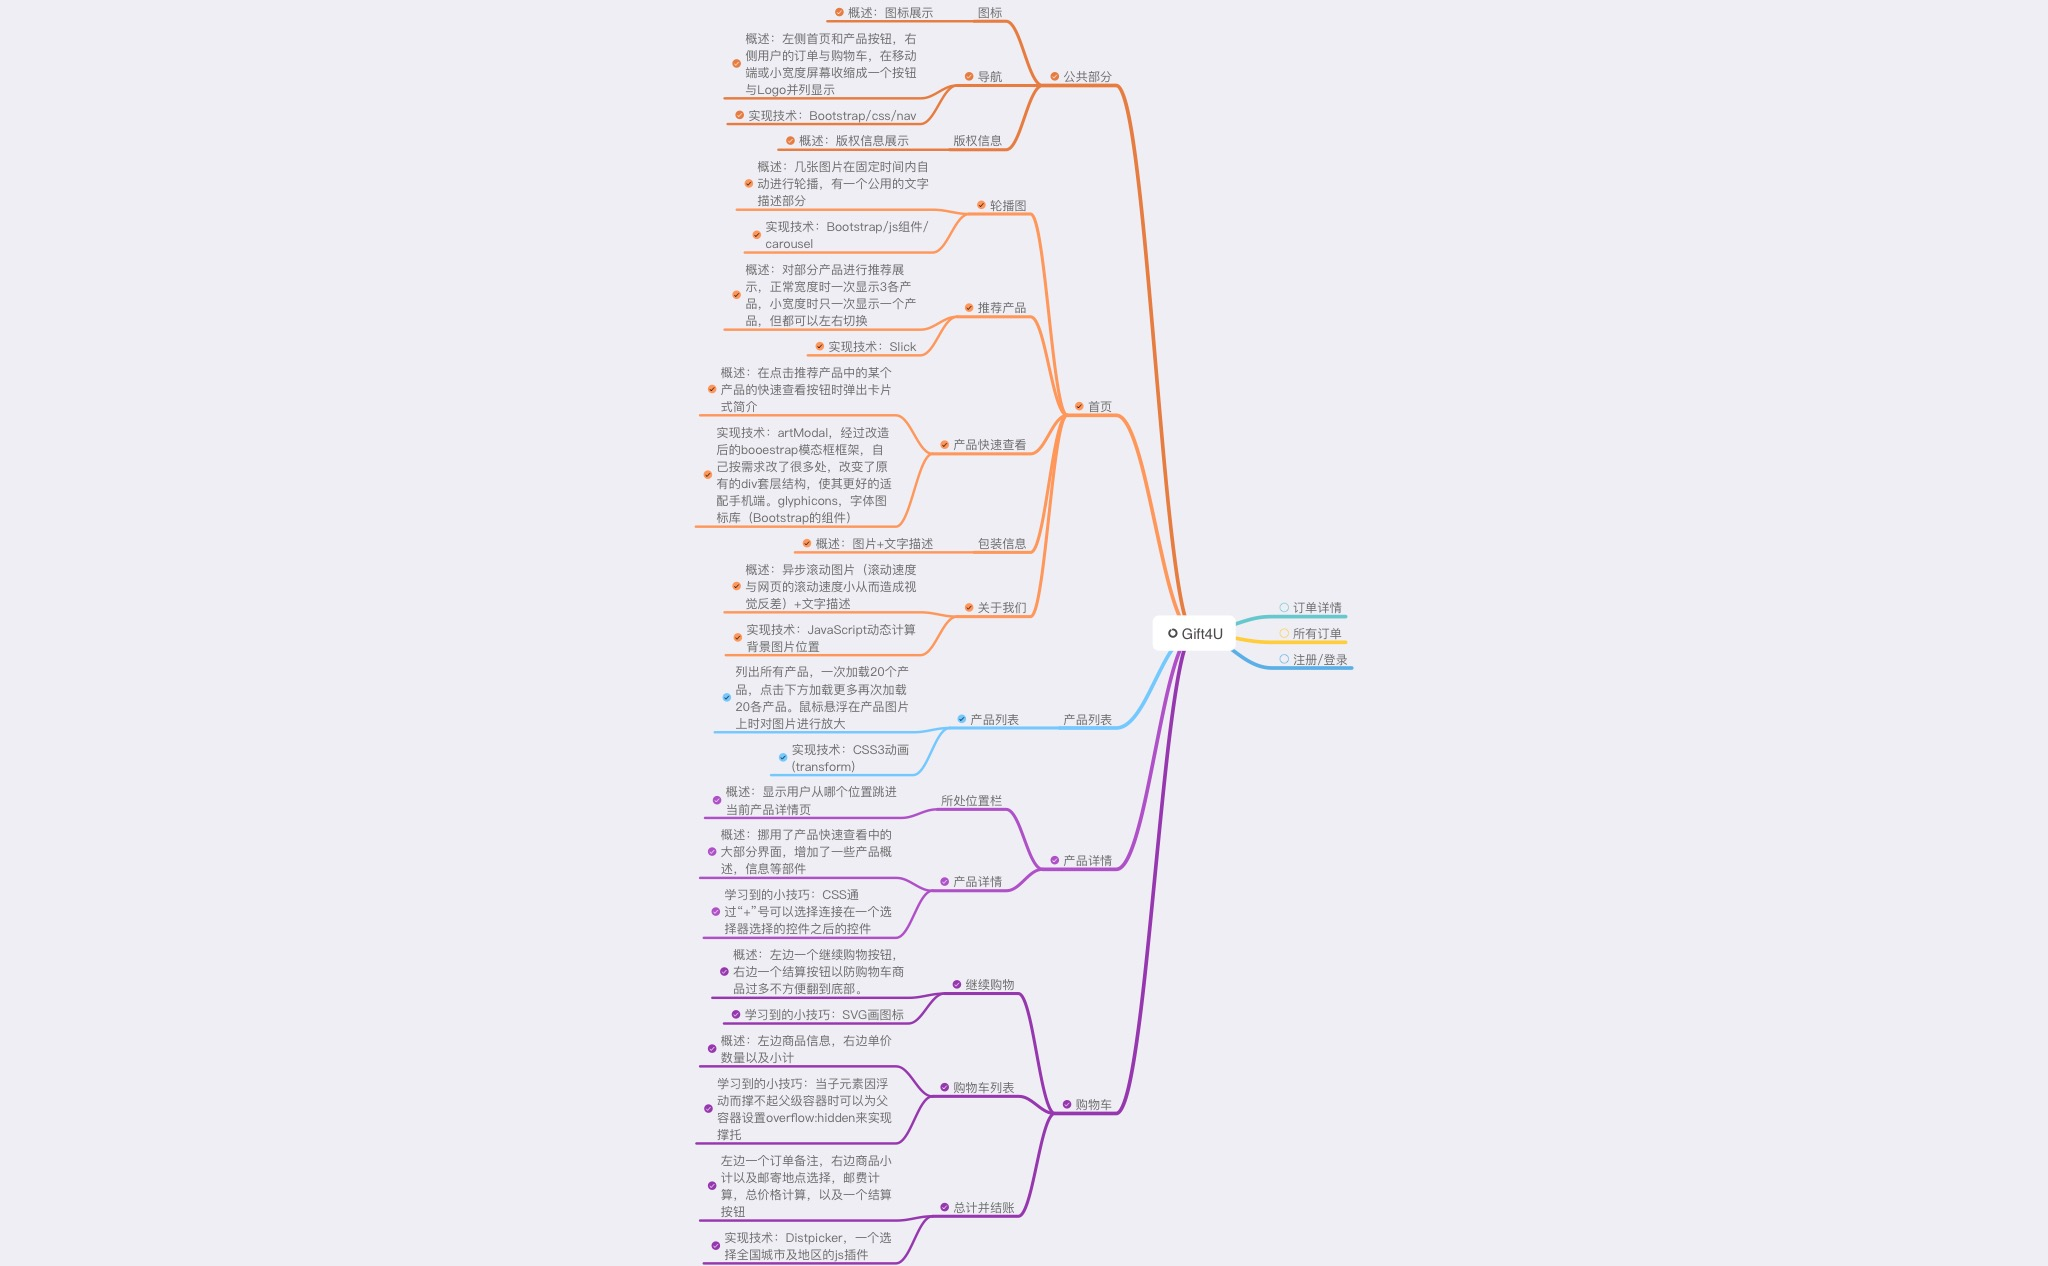
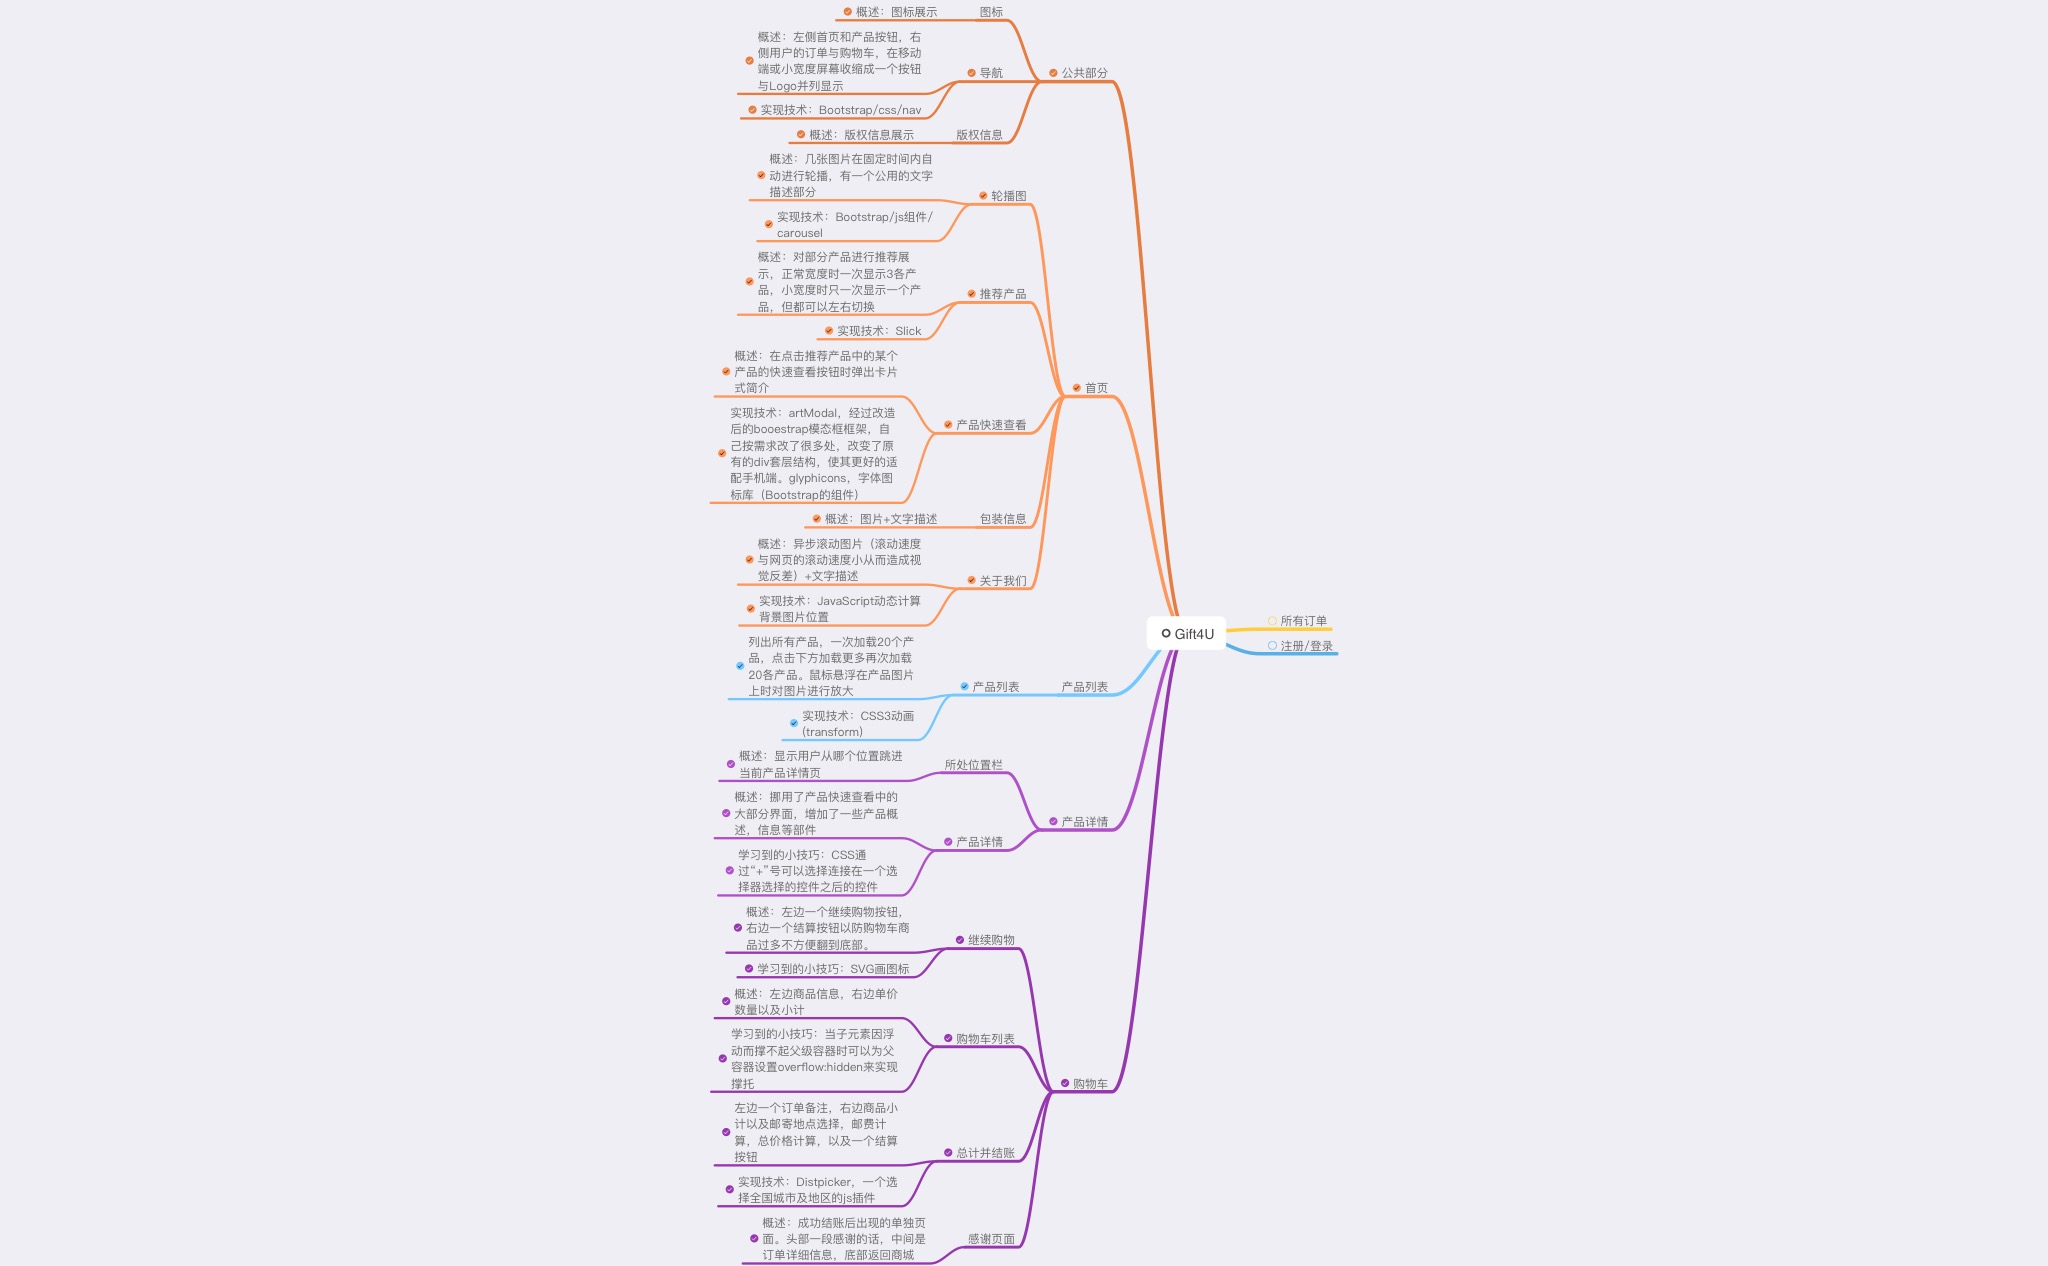
add and finish thanks page

Changed region(s): [[0.3438, 0.0, 0.6562, 1.0]]

diff --git a/pages/thanks.html b/pages/thanks.html
@@ -1,0 +1,108 @@
+<!-- module : https://duulewhite.wixsite.com/website -->
+<!DOCTYPE html>
+<html lang="en">
+
+<head>
+    <meta charset="UTF-8">
+    <meta http-equiv="X-UA-Compatible" content="IE=edge">
+    <meta name="viewport" content="width=device-width, initial-scale=1">
+    <link rel="SHORTCUT ICON" href="../img/logo2.ico" />
+    <!-- Bootstrap -->
+    <link href="../css/bootstrap.css" rel="stylesheet">
+    <!-- JQuery -->
+    <script src="../js/jquery-2.1.4.min.js"></script>
+    <!-- Bootstrap -->
+    <script src="../js/bootstrap.min.js"></script>
+    <title>[PageName] | Gift4U</title>
+    <link rel="stylesheet" type="text/css" href="../css/font.css">
+    <link rel="stylesheet" type="text/css" href="../css/common.css">
+    <link rel="stylesheet" type="text/css" href="../css/thanks.css">
+    <script type="text/javascript" src="../js/common.js"></script>
+</head>
+
+<body>
+    <!-- .logo -->
+    <div class="logo container">
+        <a href="../index.html">
+                <img src="../img/logo2.jpg" width="120px" height="120px">
+            </a>
+    </div>
+    <!-- /.logo -->
+    <!-- .navbar -->
+    <nav class="navbar navbar-default">
+        <div class="container">
+            <!-- Brand and toggle get grouped for better mobile display -->
+            <div class="navbar-header">
+                <button type="button" class="navbar-toggle collapsed" data-toggle="collapse" data-target="#bs-example-navbar-collapse-1" aria-expanded="false">
+                    <span class="sr-only">Menu</span>
+                    <span class="icon-bar">M</span>
+                </button>
+            </div>
+            <!-- Collect the nav links, forms, and other content for toggling -->
+            <div class="collapse navbar-collapse" id="bs-example-navbar-collapse-1">
+                <ul class="nav navbar-nav">
+                    <li><a href="../index.html">Home <span class="sr-only">(current)</span></a></li>
+                    <li><a href="products.html">Products</a></li>
+                </ul>
+                <ul class="nav navbar-nav navbar-right">
+                    <li class="hidden"><a href="#">Login</a></li>
+                    <li class="dropdown">
+                        <a href="#" class="dropdown-toggle" data-toggle="dropdown" role="button" aria-haspopup="true" aria-expanded="false">Dule<span class="caret"></span></a>
+                        <ul class="dropdown-menu">
+                            <li><a href="#">Orders</a></li>
+                            <li><a href="cart.html">Cart</a></li>
+                            <li role="separator" class="divider"></li>
+                            <li><a href="#">Logout</a></li>
+                        </ul>
+                    </li>
+                </ul>
+            </div>
+            <!-- /.navbar-collapse -->
+        </div>
+        <!-- /.container -->
+    </nav>
+    <!-- /.navbar -->
+    <div class="thanks">
+        <!-- .thanks-header -->
+        <div class="thanks-header">
+            <h2> Thank you for shopping with us, Dule.</h2>
+            <span>Hope to see you again soon!</span>
+        </div>
+        <!-- /.thanks-header -->
+        <!-- .thanks-body -->
+        <div class="thanks-body">
+            <ul>
+                <li>
+                    <span>Order No.</span>
+                    <span>10000</span>
+                </li>
+                <li>
+                    <span>Total</span>
+                    <span>$88.88</span>
+                </li>
+                <li>
+                    <span>Shipping to</span>
+                    <div>
+                        <span>Adress</span>
+                        <span>Hohhot, Saihan</span>
+                        <span>Inner Mongolia</span>
+                    </div>
+                </li>
+            </ul>
+        </div>
+        <!-- /.thanks-body -->
+        <!-- .continue-shopping -->
+        <div class="continue-shopping">
+            <a href="products.html">Continue Shopping</a>
+        </div>
+        <!-- /.continue-shopping -->
+    </div>
+    
+    <footer>
+        <div class="copyright container">
+            <p>© 2018 by Gift4U</p>
+        </div>
+    </footer>
+</body>
+
+</html>

diff --git a/pages/cart.html b/pages/cart.html
@@ -72,6 +72,7 @@
     <!-- /.navbar -->
     <!-- .cart-list -->
     <div class="cart-list">
+        <!-- .continue-shopping -->
         <div class="continue-shopping">
             <a href="products.html">
                 <span>
@@ -79,7 +80,7 @@
                         <g>
                             <path d="M6.572 1.354L5.865.646.293 6.218l5.585 5.585.707-.707-4.878-4.878z" fill="currentColor" fill-rule="nonzero"></path>
                         </g>
-                    </svg><!-- react-text: 200 --> <!-- /react-text -->
+                    </svg>
                 </span>Continue Shopping</a>
             <button class="checkout">
                 <span>
@@ -95,6 +96,8 @@
                 </span>
             </button>
         </div>
+        <!-- /.continue-shopping -->
+        <!-- .item-list -->
         <div class="item-list">
             <div class="list-header">
                 <div class="list-title">
@@ -107,6 +110,14 @@
                     <div>Total</div>
                 </div>
             </div>
+            <!-- .empty-cart -->
+            <!-- <div class="empty-cart">
+               <span>Cart is empty</span>
+                <div>
+                    <a href="products.html">Continue Shopping</a>
+                </div>
+            </div> -->
+            <!-- /.empty-cart -->
             <div class="list-body">
                 <div class="item">
                     <div class="item-left">
@@ -116,7 +127,7 @@
                         <div class="item-info">
                             <h3>I'm a product</h3>
                             <div class="item-property">
-                                <span>PID: 364115376135191</span>
+                                <span>PID: 123456</span>
                                 <span>Color: White</span>
                                 <span>$88.88</span>
                             </div>
@@ -135,6 +146,8 @@
                 </div>
             </div>
         </div>
+        <!-- /.item-list -->
+        <!-- .summary -->
         <div class="summary">
             <div class="summary-left">
                 <button class="btn-add-note">
@@ -169,7 +182,6 @@
                                     <div>
                                         <span>Shipping</span>
                                         <div>
-                                            <!-- <button id="shipping-dist" data-toggle="artModal" data-target="distpicker">Inner Mongolia, Hohhot, Saihan</button> -->
                                             <button id="shipping-dist">Inner Mongolia, Hohhot, Saihan</button>
                                         </div>
                                     </div>
@@ -200,11 +212,12 @@
                 </button>
             </div>
         </div>
+        <!-- .summary -->
     </div>
     <!-- /.cart-list -->
     <footer>
         <div class="copyright container">
-            <p>© 2018 by Gift4U</p>
+            <p>© 2018 by Gift4U</p>
         </div>
     </footer>
     <!-- .distpicker -->

diff --git a/css/thanks.css b/css/thanks.css
@@ -1,0 +1,91 @@
+@media(min-width: 0){
+	.thanks{
+		width: 300px;
+	}
+	.thanks-body{
+		width: 260px;
+		padding: 45px 10px;
+	}
+}
+@media(min-width: 980px){
+	.thanks{
+		width: 980px;
+	}
+	.thanks-body{
+		width: 660px;
+		padding: 45px;
+	}
+}
+.thanks{
+	margin: 0 auto;
+    padding: 100px 20px 20px;
+    font: normal normal normal 20px/1.25em Museo-700, serif;
+    font-size: 16px;
+}
+.thanks-header h2{
+	display: block;
+    margin-bottom: 30px;
+    margin-top: 0;
+    text-align: center;
+    line-height: 1em;
+    font-size: 32px;
+    font-weight: 400;
+}
+.thanks-header span{
+	display: block;
+    text-align: center;
+    font-size: 22px;
+    line-height: 1.4;
+}
+.thanks-body{
+	border-style: solid;
+    margin: 60px auto;
+	border-width: 1px;
+    border-color: rgba(10,15,19,0.20081967213114754);
+    background: rgba(255,255,255,0);
+    min-height: 10px;
+}
+
+.thanks-body ul{
+	margin: 0;
+	padding: 0;
+	list-style: none;
+}
+.thanks-body ul li{
+	overflow: hidden;
+	border-bottom-color: rgba(10,15,19,0.20081967213114754);
+	border-bottom-width: 1px;
+    border-bottom-style: solid;
+    padding: 30px 0;
+}
+.thanks-body ul li:first-child{
+	padding-top: 0;
+}
+.thanks-body ul li:last-child{
+	border:0;
+	padding-bottom: 0;
+}
+.thanks-body ul li>span:first-child{
+	float: left;
+	font-size: 20px;
+}
+.thanks-body ul li>span:last-child{
+	float: right;
+}
+.thanks-body ul li:last-child>span:first-child,
+.thanks-body ul li:last-child>span:last-child{
+	float: none;
+}
+.thanks-body ul li:last-child span{
+	display: block;
+}
+.continue-shopping {
+	width: 100%;
+	margin-bottom: 150px;
+}
+.continue-shopping a{
+    text-align: center;
+    text-decoration: underline;
+    color: black;
+    display: block;
+}

diff --git a/css/cart.css b/css/cart.css
@@ -30,7 +30,25 @@
 .cart-list {
     margin: 40px auto 150px;
 }
-
+.empty-cart{
+    border-bottom-width: 1px;
+    border-bottom-style: solid;
+    border-color: rgba(10, 15, 19, 0.2);
+    padding: 175px 0;
+    text-align: center;
+    font: normal normal normal 20px/1.25em Museo-700, serif;
+}
+.empty-cart span{
+    display: block;
+    margin-bottom: 15px;
+    font-size: 22px;
+    line-height: 1.1;
+}
+.empty-cart a{
+    text-decoration: underline;
+    color: black;
+    font-size: 15px;
+}
 .continue-shopping {
     overflow: hidden;
 }

diff --git a/js/cart.js b/js/cart.js
@@ -32,4 +32,7 @@ $(function() {
 			distpickerModal.close();
 		}
 	});
+	$(".checkout").click(function(){
+		$(window).attr('location','thanks.html');
+	})
 });
